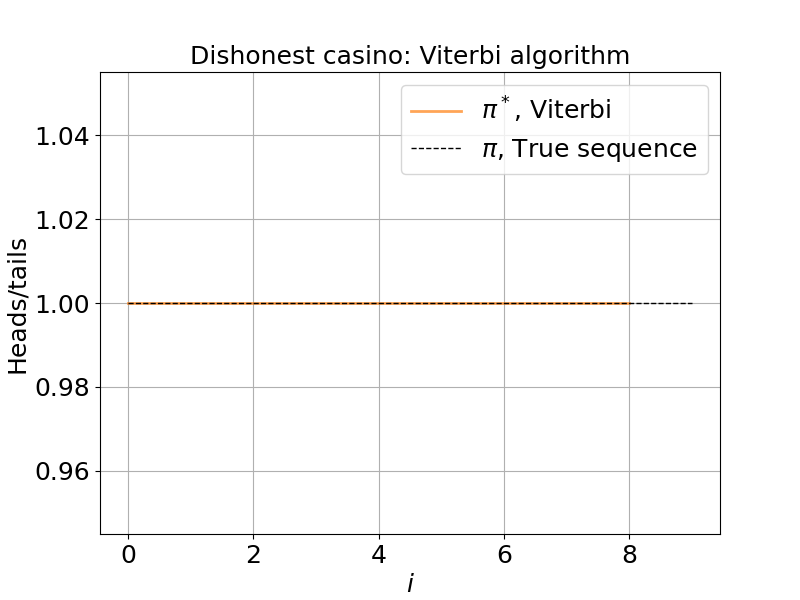
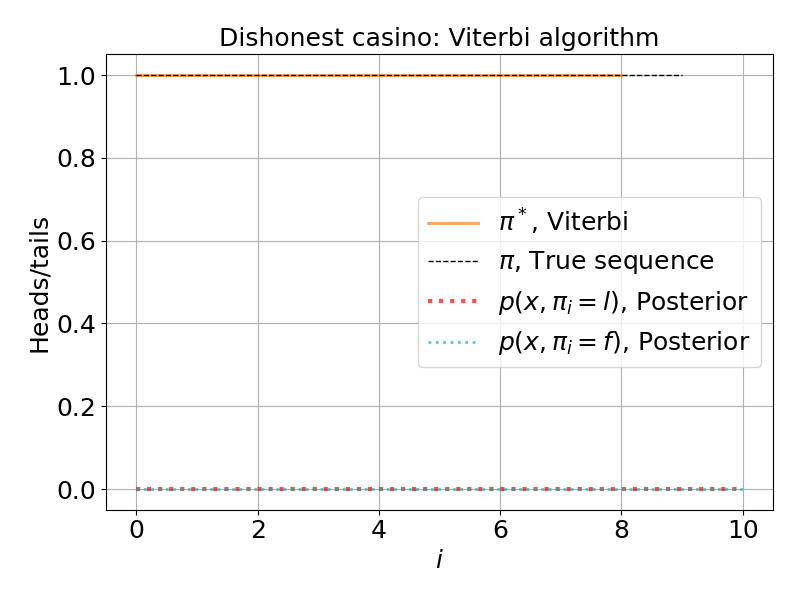
Sort of implement forward and backwards algorithm

diff --git a/SNU/machine_learning_in_bioinformatics/practice/hmm_coin_practice.py b/SNU/machine_learning_in_bioinformatics/practice/hmm_coin_practice.py
@@ -14,7 +14,7 @@ plt.rc('ytick', labelsize=18)    # fontsize of the tick labels
 plt.rc('legend', fontsize=18)    # legend fontsize
 
 '''
-A training example based on the "Occasionally dishones casino" example 
+A training example based on the "Occasionally dishonest casino" example 
 from  chapter 3 of Biological Sequence analysis, focusing on HMMs.
 The specific example is random tosses of coins, and the task is to find 
     - most likely state sequence
@@ -82,7 +82,7 @@ def viterbi(x, e, a, a_0k):
     a_kl = np.log(a_kl)
     e_lx = np.log(e_lx)
     # Recursion
-    for i in tqdm(range(1, len(x)+1)):
+    for i in range(1, len(x)+1):
         xi = x[i-1]
         for l in range(v.shape[1]):
             # l is the new state, either 0 (loaded) or 1 (fair). 0 is inaccessible p=0
@@ -97,65 +97,127 @@ def viterbi(x, e, a, a_0k):
 
 def forward(x, e, a, a_0k):
     ''' 
-        Given a sequence x, calculate the most probable state sequence pi.
+        Given a sequence x, calculate its probability p(x).
         Perform calculations in log space
 
         Avoiding underflow: http://wittawat.com/posts/log-sum_exp_underflow.html
     '''
     # Initialization
-    f = np.zeros((len(x)+1, 3)) 
-    o = 0  # Almost 0, will be used as 0 here to avoid log errors
+    f = np.zeros((len(x)+1, 3))  # p of most probable path ending in each state, if it ends now
     #          0  l  f
-    f[0, :] = [1, o, o]  # p of most probable path ending in each state, if it ends now
-    a_kl = np.array([ [o, a_0k[0], a_0k[1]], [o, 1-a[0], a[0]], [o, a[1], 1-a[1]] ])  # [ [a_00, a_0l, a_0f], [a_l0, a_ll, a_lf], [a_20, a_fl, a_ff] ]
-    e_lx = np.array([ [o, o], [e[0], 1-e[0]], [e[1], 1-e[1]] ])  # [ [e_0(h), e_0(t)], [e_l(h), e_l(t)], [e_f(h), e_f(t)] ]
+    f[0, :] = [1, 0, 0] 
+    a_kl = np.array([ [0, a_0k[0], a_0k[1]], [0, 1-a[0], a[0]], [0, a[1], 1-a[1]] ])  # [ [a_00, a_0l, a_0f], [a_l0, a_ll, a_lf], [a_f0, a_fl, a_ff] ]
+    e_lx = np.array([ [0, 0], [e[0], 1-e[0]], [e[1], 1-e[1]] ])  # [ [e_0(h), e_0(t)], [e_l(h), e_l(t)], [e_f(h), e_f(t)] ]
     # Convert to log space
     f[0,:] = np.log(f[0,:])
     a_kl = np.log(a_kl)
     e_lx = np.log(e_lx)
     # Recursion
-    for i in tqdm(range(1, len(x)+1)):
+    for i in range(1, len(x)+1):
         xi = x[i-1]
         for l in range(f.shape[1]):
             # l is the new state, either 0 (loaded) or 1 (fair). 0 is inaccessible p=0
             e_l = e_lx[l, :]
             f_a_kl = f[i-1,:] + a_kl[:, l]
             c = np.max(f_a_kl)
-            print(np.sum(np.exp( f_a_kl )))
-            f[i, l] =  e_l[xi] + c + np.log(np.sum(np.exp( f_a_kl - c)))
-        print(f[i,:])
-        print('_____________')
+            fa_sum = c + np.log(np.sum(np.exp( f_a_kl - c)))
+            # print( a_kl[l, :])
+            if e_l[xi] == -np.inf or fa_sum == -np.inf :
+                f[i, l] = -np.inf
+            else:
+                f[i, l] =  e_l[xi] + fa_sum
+
     # Termination
-    p_x = np.exp( np.sum( f[-1,:] ) )
-    # Traceback
-    print(p_x)
-    return p_x
+    a_k0 = np.array([0, 0.5, 0.5])
+    p_x = np.sum( np.exp(f[-1,:]) * a_k0 )
+    # p_x = np.sum(np.exp( f[-1, :] ))
+    # Unlog
+    f = np.exp(f)
+    return p_x, f
+
+
+def backwards(x, e, a, a_0k):
+    ''' 
+        Given a sequence x, calculate b in order to calculate the probability that 
+        the HMM is in state k at char i p( pi_i = k | x ).
+        Perform calculations in log space
+    '''
+    # Initialization
+    b = np.zeros((len(x)+1, 3)) 
+    #          0  l  f
+    b[-1, :] = [0, 0.5, 0.5]  # bk(L) = a_k0, i.e.prob to go to ending state
+    a_kl = np.array([ [0, a_0k[0], a_0k[1]], [0, 1-a[0], a[0]], [0, a[1], 1-a[1]] ])  # [ [a_00, a_0l, a_0f], [a_l0, a_ll, a_lf], [a_f0, a_fl, a_ff] ]
+    e_lx = np.array([ [0, 0], [e[0], 1-e[0]], [e[1], 1-e[1]] ])  # [ [e_0(h), e_0(t)], [e_l(h), e_l(t)], [e_f(h), e_f(t)] ]
+    # Convert to log space
+    b[0,:] = np.log(b[0,:])
+    a_kl = np.log(a_kl)
+    e_lx = np.log(e_lx)
+    # Recursion
+    for i in reversed(range(0, b.shape[0])):
+        xi = x[i-1]
+        for l in range(b.shape[1]):
+            # l is the new state, either 0 (loaded) or 1 (fair). 0 is inaccessible p=0
+            e_l = e_lx[l, :]
+            b_a_kl = b[i,:] + a_kl[:, l]
+            c = np.max(b_a_kl)
+            ba_sum = c + np.log(np.sum(np.exp( b_a_kl - c)))
+            # print( a_kl[l, :])
+            if e_l[xi] == -np.inf or ba_sum == -np.inf :
+                b[i-1, l] = -np.inf
+            else:
+                b[i-1, l] =  e_l[xi] + ba_sum
+    # Termination
+    x1 = x[0]  # stupid algorithm count from 1 >.<
+    a_0l = np.array( [0, a_0k[0], a_0k[1]] )
+    p_x = 0
+    for l in range(b.shape[1]):
+        e_l = e_lx[l, :]
+        p_x +=  a_0l[l] * np.exp( e_lx[x1] + b[0,l] ) 
+    # Unlog
+    b = np.exp(b)
+    return b
 
 
 # Generate sequence of coin tosses
-L = 2
+L = 300
 x, pi, e, a, a_0k = casino(L)
 
 # Obtain most probable state sequence - Viterbi algorithm
 pi_m = viterbi(x, e, a, a_0k)
 
-# Plot
-fig, ax = plt.subplots(figsize=(8,6))
-ax.plot(pi_m[1:], c='C1', linewidth=2, alpha=0.7, label=r'$\pi^*$, Viterbi')
-# ax.fill_between(np.arange(L), 1, pi_m)
-ax.plot(pi, c='k', linestyle='--', linewidth=1, label=r'$\pi$, True sequence')
-ax.grid()
-ax.legend(loc='best')
-ax.set_title('Dishonest casino: Viterbi algorithm')
-ax.set_xlabel(r'$i$')
-ax.set_ylabel(r'Heads/tails')
-plt.savefig(f'viterbi_L={L}.png')
 
 # Obtain probability of sequence - Forward algorithm
-p_x = forward(x, e, a, a_0k)
+p_x, f = forward(x, e, a, a_0k)
+
+# Obtain probability of state for xi - Backwards algorithm
+b = backwards(x, e, a, a_0k)
+p_pii = f * b / p_x
+# Error somewhere, rescale p_pii so sums to 1
+p_pii /= np.sum(p_pii[1,:])
+
+
 
 # Print results
 print()
 print('--------- Results ---------')
 print(f'**** Viterbi accuracy: {(np.sum(pi_m == pi) / L):.2f}')
 print(f'**** Forward: P(x): {p_x}')
+print(f'**** Backward: P(pi_100 = k | x): {p_pii[1,:]}')
+
+# Plot
+fig, ax = plt.subplots(figsize=(8,6))
+
+ax.plot(pi, c='k', linestyle='--', linewidth=1, label=r'$\pi$, True sequence')
+ax.plot(pi_m[1:], c='C1', linewidth=2, alpha=0.7, label=r'$\pi^*$, Viterbi')
+
+ax.plot(p_pii[:,1], c='r', linestyle=':', linewidth=3, alpha=0.7, label=r'$p(x, \pi_i=l)$, Posterior')
+ax.plot(p_pii[:,2], c='c', linestyle=':', linewidth=2, alpha=0.7, label=r'$p(x, \pi_i=f)$, Posterior')
+
+ax.grid()
+ax.legend(loc='best')
+ax.set_title('The Dishonest casino')
+ax.set_xlabel(r'$i$')
+ax.set_ylabel(r'Heads/tails')
+plt.tight_layout()
+plt.savefig(f'viterbi_L={L}.png')
+plt.show()
